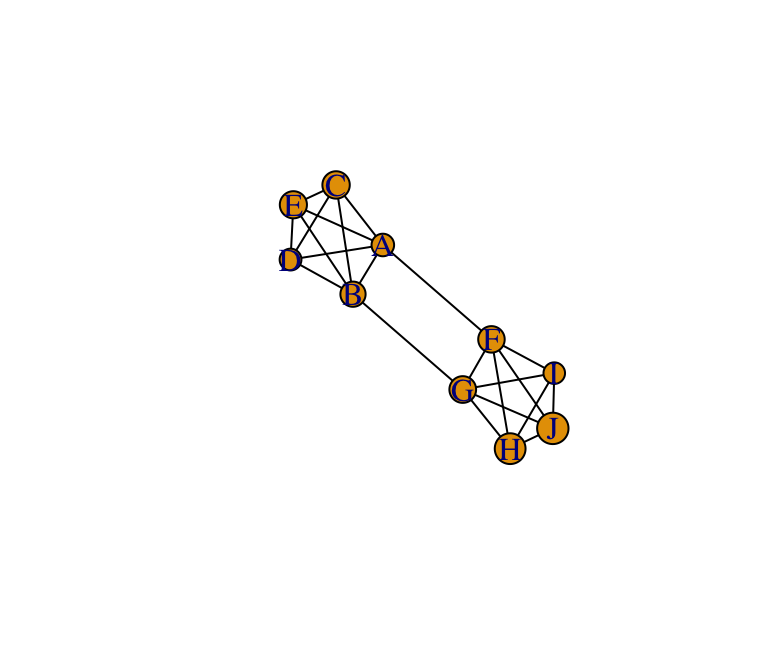
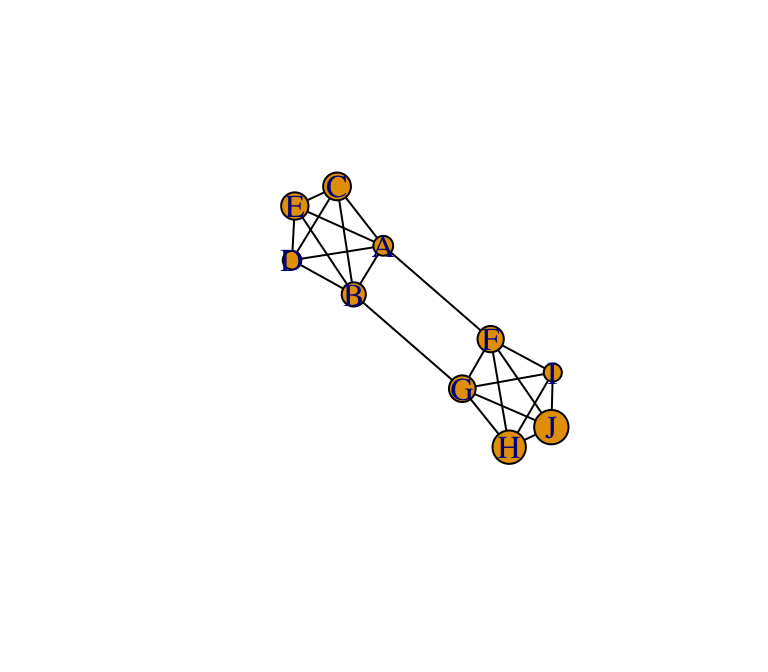
update code & explanations

diff --git a/05_community.html b/05_community.html
@@ -217,6 +217,7 @@ $(document).ready(function () {
 <li><a href="#assortment">5.2 Assortment</a><ul>
 <li><a href="#the-assortment-coefficient">5.2.1 The Assortment Coefficient</a></li>
 <li><a href="#assortment-a-simple-example">5.2.2 Assortment: a simple example</a></li>
+<li><a href="#using-the-assortnet-package">5.2.3 Using the <code>assortnet</code> package</a></li>
 </ul></li>
 </ul>
 </div>
@@ -386,6 +387,7 @@ plot(g.sparrow, vertex.label=&quot;&quot;, edge.width=E(g.sparrow)$weight*5)</co
 <p><span class="math inline">\(r = \frac{\sum_{ij} \left(A_{ij}-k_ik_j/2m\right)x_ix_j}{\sum_{ij} \left(k_i\delta_{ij}-k_ik_j/2m\right)x_ix_j}\)</span></p>
 <p>where <span class="math inline">\(k_i\delta_{ij}\)</span> is the degree of <span class="math inline">\(i\)</span> excluding its connection with <span class="math inline">\(j\)</span>. This is actually a form of the Pearson correlation coefficient. The coefficient is large (approaches 1) if nodes with similar values are more connected and small (approaches 1) when similar nodes are less connected. The value is 0 when edges are random with respect to node values.</p>
 <p>For more on the assortativity coefficient, I recommend reading the original paper on this by Newman (2002), and its extension by Farine (2014).</p>
+<p>Note also that the igraph function for <code>assortativity()</code> can only handle unweighted networks. To measure assortativity on weighted networks, use the <code>assortment.discrete()</code> or <code>assortment.continuous()</code> function in the <code>assortnet</code> library (Farine 2014). Here, I will first demonstrate how to use the <code>assortativity()</code> function in igraph, and then do the equivalent with the <code>assortnet</code> package functions.</p>
 </div>
 <div id="assortment-a-simple-example" class="section level3">
 <h3>5.2.2 Assortment: a simple example</h3>
@@ -400,14 +402,17 @@ plot(g, layout=l, edge.color=&quot;black&quot;)</code></pre>
 <pre><code>## [1] 0.7887182</code></pre>
 <p>As you can see, this network exhibits high levels of assortativity by node size (r = 0.79). As a comparison, let’s create a node attribute that varies randomly across all nodes in the network, and then measure the assortativity coefficient based on this trait. We will plot the figure with square nodes, just to make it clear that we are plotting a different trait.</p>
 <pre class="r"><code>set.seed(3)
-V(g)$random=rnorm(10, mean=20, sd=3) #create a node trait that varies randomly for all nodes 
+V(g)$random=rnorm(10, mean=20, sd=5) #create a node trait that varies randomly for all nodes 
 assortativity(g, V(g)$random, directed=F)</code></pre>
 <pre><code>## [1] -0.06392816</code></pre>
 <pre class="r"><code>plot(g, layout=l, edge.color=&quot;black&quot;, vertex.size=V(g)$random)</code></pre>
 <p><img src="05_community_files/figure-html/unnamed-chunk-12-1.png" width="384" /></p>
 <p>You can see that there is little assortment based on this trait.</p>
 <p>Just to be extra clear, this network is still exhibits community structure (A through E and F through J), but the trait we are measuring does not exhibit assortativity.</p>
-<p><strong><em>Note</em></strong>: The igraph function for <code>assortativity()</code> can only handle unweighted networks. To measure assortativity on weighted networks, use the <code>assortment.discrete()</code> or <code>assortment.continuous()</code> function in the <code>assortnet</code> library (Farine 2014).</p>
+</div>
+<div id="using-the-assortnet-package" class="section level3">
+<h3>5.2.3 Using the <code>assortnet</code> package</h3>
+<p>Let’s now try to get the same result using the function in the <code>assortnet</code> package, and then measure the assortment coefficient in a weighted network.</p>
 </div>
 </div>
 
